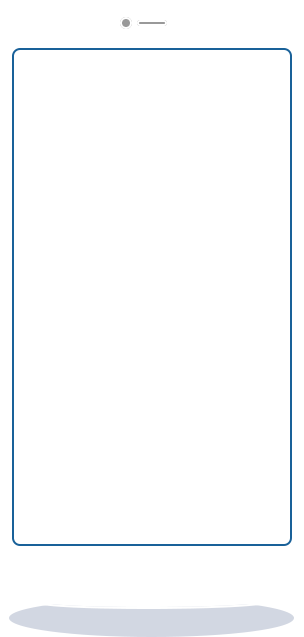
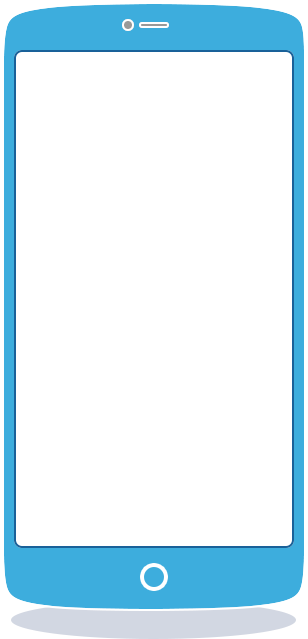
Adding first version of main anim

Changed region(s): [[0.0, 0.0, 1.0, 0.9843]]

diff --git a/media/css/firefox/os/firefox-os-new.less b/media/css/firefox/os/firefox-os-new.less
@@ -6,6 +6,10 @@
 #outer-wrapper {
     background-color: #04a2dc;
 }
+#wrapper {
+    background: #04a2dc url(/media/img/firefox/os-new/site-bg.png) 0 0 no-repeat;
+    width: 1400px;
+}
 main {
     margin: 0 auto;
     width: 1440px;
@@ -94,5 +98,145 @@ a:visted {
     width: 1100px;
     li {
         display: inline;
+    }
+}
+/* temp */
+.demo-phone-container {
+    position: relative;
+    width: 100%;
+    height: 640px;
+    overflow: hidden;
+}
+.demo-phone-container img {
+    position: relative;
+    left: -253px;
+    z-index: 3;
+}
+.demo-phone-container img.wireframe-screens {
+    position: absolute;
+    top: 48px;
+    left: 20px;
+    z-index: 1;
+
+    -webkit-animation-name: swipe;
+    -webkit-animation-duration: 10s;
+    -webkit-animation-iteration-count: 1;
+    -webkit-animation-timing-function: ease-in-out;
+
+    animation-name: swipe;
+    animation-duration: 10s;
+    animation-iteration-count: 1;
+    animation-timing-function: ease-in-out;
+}
+.screens-sprite {
+    position: absolute;
+    top: 48px;
+    left: 23%;
+    background: transparent url(/media/img/firefox/os-new/screens-sprite.png) -310px 0 no-repeat;
+    clip: rect(0, 277px, 498px, 0);
+    width: 277px;
+    height: 498px;
+    z-index: 2;
+
+    -webkit-animation-name: swipe-screens;
+    -webkit-animation-duration: 10s;
+    -webkit-animation-iteration-count: 1;
+    -webkit-animation-timing-function: ease-in-out;
+
+    animation-name: swipe-screens;
+    animation-duration: 10s;
+    animation-iteration-count: 1;
+    animation-timing-function: ease-in-out;
+}
+@-webkit-keyframes swipe {
+    15% {
+        left: 20px;
+    }
+    25% {
+        left: 20px;
+    }
+    40% {
+        left: -290px;
+    }
+    65% {
+        left: -597px;
+    }
+    70% {
+        left: -290px;
+    }
+    75% {
+        left: 20px;
+    }
+    90% {
+        left: 329px;
+    }
+}
+@keyframes swipe {
+    0% {
+        left: 20px;
+    }
+    15% {
+        left: 20px;
+    }
+    40% {
+        left: -290px;
+    }
+    65% {
+        left: -597px;
+    }
+    70% {
+        left: -290px;
+    }
+    75% {
+        left: 20px;
+    }
+    90% {
+        left: 329px;
+    }
+}
+@-webkit-keyframes swipe-screens {
+    0% {
+        background-position: -310px 0;
+    }
+    15% {
+        background-position: -310px 0;
+    }
+    40% {
+        background-position: -623px 0;
+    }
+    65% {
+        background-position: -930px 0;
+    }
+    70% {
+        background-position: -623px 0;
+    }
+    75% {
+        background-position: -310px 0;
+    }
+    90% {
+        background-position: 0 0;
+    }
+}
+@keyframes swipe-screens {
+    0% {
+        background-position: -310px 0;
+    }
+    15% {
+        background-position: -310px 0;
+    }
+    40% {
+        background-position: -623px 0;
+    }
+    65% {
+        background-position: -930px 0;
+    }
+    70% {
+        background-position: -623px 0;
+    }
+    75% {
+        background-position: -310px 0;
+    }
+    90% {
+        background-position: 0 0;
     }
 }

diff --git a/bedrock/firefox/templates/firefox/os/index-new.html b/bedrock/firefox/templates/firefox/os/index-new.html
@@ -32,7 +32,11 @@
       <h1 class="huge">Firefox <span>OS<span></h1>
       <p class="tagline">{{_('Designed to give you just what you need, just when you need it.')}}</p>
       <a href="" class="cta-button">Get a phone</a>
-      <!-- demo area -->
+      <div class="demo-phone-container">
+        <img src="{{ static('img/firefox/os-new/device.png') }}" width="304" height="637" alt="cellphone outlines" />
+        <img src="{{ static('img/firefox/os-new/wireframes-sprite.png') }}" class="wireframe-screens" height="499" width="1205" alt="wireframe of app screens" />
+        <div class="screens-sprite"></div>
+      </div>
       <ul>
         <li><a href="#">Scroll the homepage</a></li>
         <li><a href="#">Swipe betwen apps</a></li>
